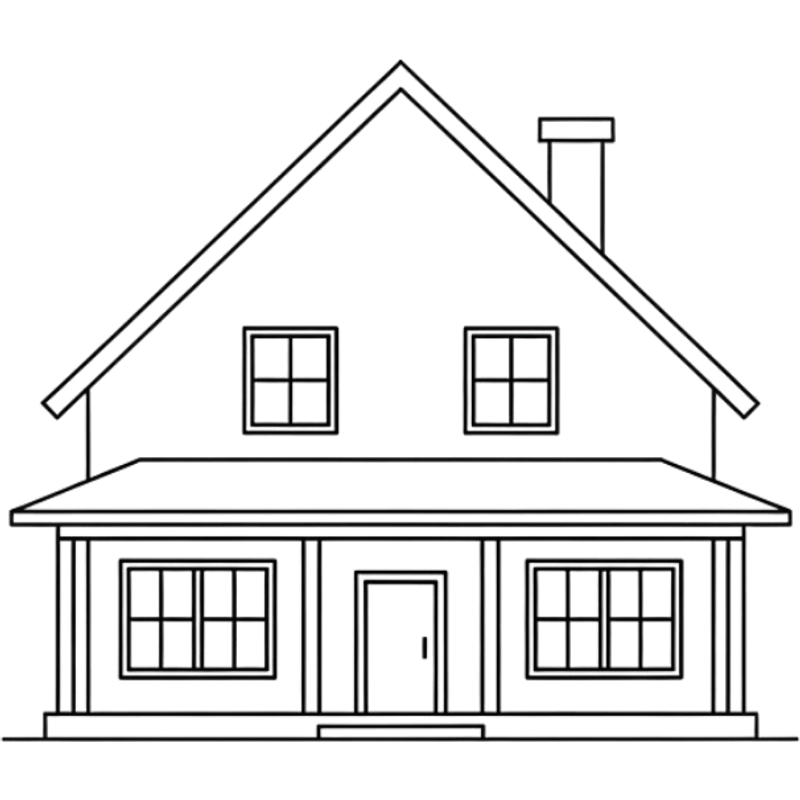
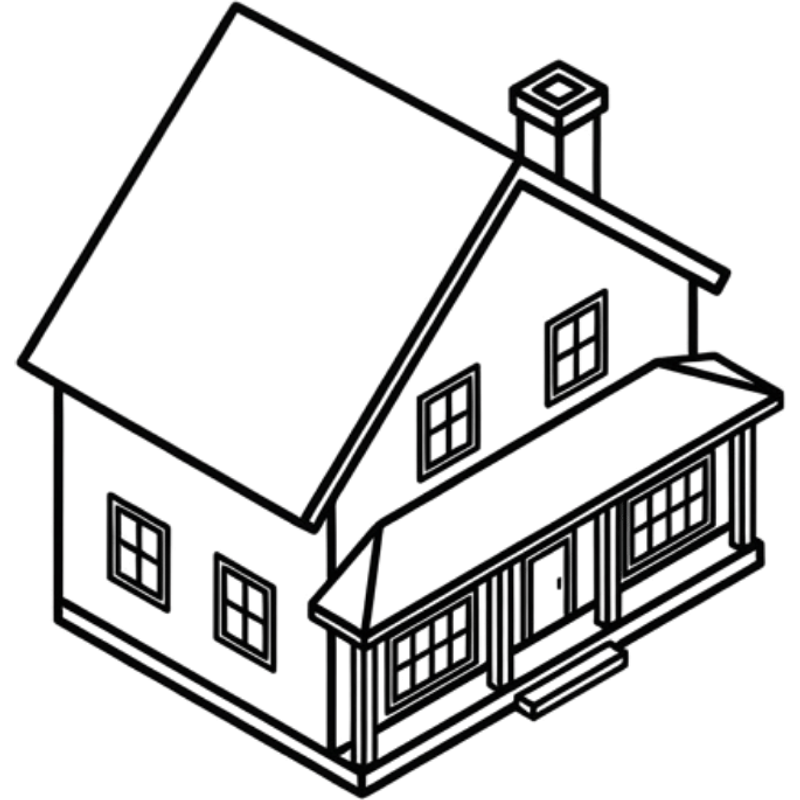
Обновлены все PNG-иконки квиза на новые сгенерированные картинки
Все нормализованы 800x800, обрезан whitespace, пути обновлены

Changed region(s): [[0.0, 0.0, 1.0, 1.0], [0.1875, 0.0312, 0.2812, 0.1875], [0.0938, 0.1875, 0.1875, 0.3438]]

diff --git a/index.html b/index.html
@@ -1144,28 +1144,28 @@
 
     var QUIZ = {
       product: { title:'1. Что вас интересует?', options:[
-        {value:'windows', label:'Окна', sub:'Квартира, дом, дача', icon:'<img src="assets/img/пнг для калькулятора/2.png" alt="Окна">'},
-        {value:'balconyBlock', label:'Балконный блок', sub:'Дверь + окно', icon:'<img src="assets/img/пнг для калькулятора/Балконный блок.png" alt="Балконный блок">'},
-        {value:'balconyWindows', label:'Остекление балкона', sub:'Балкон / лоджия', icon:'<img src="assets/img/пнг для калькулятора/остекление балкона.png" alt="Остекление балкона">'},
-        {value:'doors', label:'Двери ПВХ', sub:'Входные и межкомнатные', icon:'<img src="assets/img/пнг для калькулятора/Дверь ПВХ.png" alt="Двери ПВХ">'}
+        {value:'windows', label:'Окна', sub:'Квартира, дом, дача', icon:'<img src="assets/img/пнг для калькулятора/окна.png" alt="Окна">'},
+        {value:'balconyBlock', label:'Балконный блок', sub:'Дверь + окно', icon:'<img src="assets/img/пнг для калькулятора/балконная блок.png" alt="Балконный блок">'},
+        {value:'balconyWindows', label:'Остекление балкона', sub:'Балкон / лоджия', icon:'<img src="assets/img/пнг для калькулятора/окна на балкон.png" alt="Остекление балкона">'},
+        {value:'doors', label:'Двери ПВХ', sub:'Входные и межкомнатные', icon:'<img src="assets/img/пнг для калькулятора/дверь пвх.png" alt="Двери ПВХ">'}
       ]},
       branches: {
         windows:[
           {key:'place', title:'2. Куда нужны окна?', options:[
-            {value:'Квартира',label:'В квартиру',icon:'<img src="assets/img/пнг для калькулятора/окно в квартиру.png" alt="Квартира">'},
+            {value:'Квартира',label:'В квартиру',icon:'<img src="assets/img/пнг для калькулятора/квартира.png" alt="Квартира">'},
             {value:'Дом',label:'В частный дом',icon:'<img src="assets/img/пнг для калькулятора/частный дом.png" alt="Дом">'},
-            {value:'Дача',label:'На дачу',icon:'<img src="assets/img/пнг для калькулятора/На дачу.png" alt="Дача">'}
+            {value:'Дача',label:'На дачу',icon:'<img src="assets/img/пнг для калькулятора/дача.png" alt="Дача">'}
           ]},
           {key:'type', title:'3. Какое окно?', options:[
-            {value:'Одностворчатое',label:'Одностворчатое',icon:'<img src="assets/img/пнг для калькулятора/1.png" alt="Одностворчатое" style="width:100%;height:100%;object-fit:contain;">'},
-            {value:'Двухстворчатое',label:'Двухстворчатое',icon:'<img src="assets/img/пнг для калькулятора/2.png" alt="Двухстворчатое" style="width:100%;height:100%;object-fit:contain;">'},
-            {value:'Трёхстворчатое',label:'Трёхстворчатое',icon:'<img src="assets/img/пнг для калькулятора/3.png" alt="Трёхстворчатое" style="width:100%;height:100%;object-fit:contain;">'}
+            {value:'Одностворчатое',label:'Одностворчатое',icon:'<img src="assets/img/пнг для калькулятора/одностворчатое окно.png" alt="Одностворчатое">'},
+            {value:'Двухстворчатое',label:'Двухстворчатое',icon:'<img src="assets/img/пнг для калькулятора/двухстворчатое окно.png" alt="Двухстворчатое">'},
+            {value:'Трёхстворчатое',label:'Трёхстворчатое',icon:'<img src="assets/img/пнг для калькулятора/трехстворстое окно.png" alt="Трёхстворчатое">'}
           ]}
         ],
         balconyBlock:[{key:'layout', title:'2. Расположение двери?', options:[
-          {value:'Дверь слева',label:'Дверь слева',icon:'<img src="assets/img/пнг для калькулятора/дверь слева.png" alt="Дверь слева">'},
-          {value:'Чебурашка',label:'Дверь по центру',icon:'<img src="assets/img/пнг для калькулятора/чебурашка.png" alt="Чебурашка">'},
-          {value:'Дверь справа',label:'Дверь справа',icon:'<img src="assets/img/пнг для калькулятора/дверь справа.png" alt="Дверь справа">'}
+          {value:'Дверь слева',label:'Дверь слева',icon:'<img src="assets/img/пнг для калькулятора/окно справа.png" alt="Дверь слева">'},
+          {value:'Чебурашка',label:'Дверь по центру',icon:'<img src="assets/img/пнг для калькулятора/два окна по бокам и дверь по середине.png" alt="Чебурашка">'},
+          {value:'Дверь справа',label:'Дверь справа',icon:'<img src="assets/img/пнг для калькулятора/окно слева.png" alt="Дверь справа">'}
         ]}],
         balconyWindows:[{key:'shape', title:'2. Форма балкона?', options:[
           {value:'Прямой',label:'Прямой',icon:'<img src="assets/img/пнг для калькулятора/Прямой балкон.png" alt="Прямой">'},
@@ -1174,9 +1174,9 @@
           {value:'Z-образный',label:'Z-образный',icon:'<img src="assets/img/пнг для калькулятора/Z - образный балкон.png" alt="Z-образный">'}
         ]}],
         doors:[{key:'place', title:'2. Куда нужна дверь?', options:[
-          {value:'Улица',label:'На улицу',icon:'<img src="assets/img/пнг для калькулятора/дверь на улицу.png" alt="На улицу">'},
-          {value:'Балкон',label:'На балкон',icon:'<img src="assets/img/пнг для калькулятора/дверь пвх на балкон.png" alt="На балкон">'},
-          {value:'Внутри',label:'Внутри помещения',icon:'<img src="assets/img/пнг для калькулятора/дверь в комнату.png" alt="Внутри">'}
+          {value:'Панорамная',label:'Панорамная',icon:'<img src="assets/img/пнг для калькулятора/Панорамная ПВХ-дверь.png" alt="Панорамная">'},
+          {value:'Комбинированная',label:'Комбинированная',icon:'<img src="assets/img/пнг для калькулятора/Комбинированная ПВХ-дверь.png" alt="Комбинированная">'},
+          {value:'Со сложной раскладкой',label:'Со сложной раскладкой',icon:'<img src="assets/img/пнг для калькулятора/ПВХ-дверь со сложной раскладкой.png" alt="Со сложной раскладкой">'}
         ]}]
       }
     };
